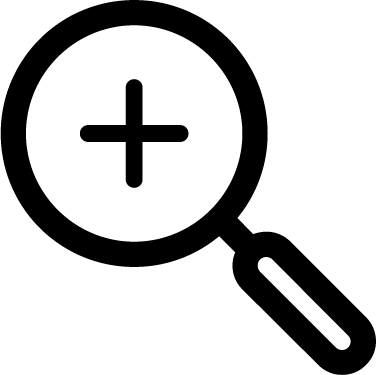
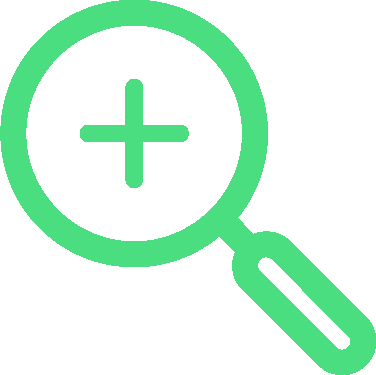
refactored format and style

Changed region(s): [[0.0, 0.0, 1.0, 1.0], [0.2048, 0.2053, 0.4973, 0.4987]]

diff --git a/pages/index.js b/pages/index.js
@@ -1,6 +1,6 @@
 import Head from "next/head";
 import { useState } from "react";
-import { Body, ContentWrapper, NavBtn, NavSelected } from "../styles/styles";
+import { Body, ContentWrapper, NavBtn } from "../styles/styles";
 import Overview from "./overview";
 import Art from "./art";
 import Development from "./development";
@@ -14,9 +14,23 @@ export default function Index() {
     window.scrollTo(0, 0);
   };
 
+  const NavButton = ({ value }) => {
+    return (
+      <button
+        className={`${NavBtn} ${
+          currentPage == value ? "border border-green-800" : null
+        }`}
+        onClick={handleNav}
+        value={value}
+      >
+        {value}
+      </button>
+    );
+  };
+
   return (
     <div className={Body}>
-      <nav className="fixed bg-green-700 w-full shadow z-10">
+      <nav className="fixed bg-gray-700 w-full border-b border-green-400 z-10">
         <Head>
           <title>Ethan Mathes</title>
           <link rel="icon" type="image/png" sizes="32x32" href="/logo.png" />
@@ -27,43 +41,17 @@ export default function Index() {
               <div className="flex-shrink-0 flex items-center">
                 <img className="block h-8 w-auto" src="/logo.png" alt="Logo" />
               </div>
-              <div className="flex-shrink-0 flex items-center text-white px-3 py-2 rounded-md text-2xl font-medium">
+              <div className="flex-shrink-0 flex items-center text-gray-300 px-3 py-2 rounded-md text-2xl font-medium">
                 ETHAN MATHES
               </div>
             </div>
             <div className="absolute inset-y-0 right-0 flex items-center pr-2 sm:static sm:inset-auto sm:ml-6 sm:pr-0">
               <div className="hidden sm:block sm:ml-6">
                 <div className="flex space-x-4">
-                  <button
-                    className={currentPage == "Overview" ? NavSelected : NavBtn}
-                    onClick={handleNav}
-                    value="Overview"
-                  >
-                    Overview
-                  </button>
-                  <button
-                    className={currentPage == "Art" ? NavSelected : NavBtn}
-                    onClick={handleNav}
-                    value="Art"
-                  >
-                    Art
-                  </button>
-                  <button
-                    className={
-                      currentPage == "Development" ? NavSelected : NavBtn
-                    }
-                    onClick={handleNav}
-                    value="Development"
-                  >
-                    Development
-                  </button>
-                  <button
-                    className={currentPage == "Links" ? NavSelected : NavBtn}
-                    onClick={handleNav}
-                    value="Links"
-                  >
-                    Links
-                  </button>
+                  <NavButton value="Overview" />
+                  <NavButton value="Art" />
+                  <NavButton value="Development" />
+                  <NavButton value="Links" />
                 </div>
               </div>
             </div>
@@ -71,34 +59,10 @@ export default function Index() {
         </div>
         <div className="sm:hidden" id="mobile-menu">
           <div className="pb-3 flex justify-center">
-            <button
-              className={currentPage == "Overview" ? NavSelected : NavBtn}
-              onClick={handleNav}
-              value="Overview"
-            >
-              Overview
-            </button>
-            <button
-              className={currentPage == "Art" ? NavSelected : NavBtn}
-              onClick={handleNav}
-              value="Art"
-            >
-              Art
-            </button>
-            <button
-              className={currentPage == "Development" ? NavSelected : NavBtn}
-              onClick={handleNav}
-              value="Development"
-            >
-              Development
-            </button>
-            <button
-              className={currentPage == "Links" ? NavSelected : NavBtn}
-              onClick={handleNav}
-              value="Links"
-            >
-              Links
-            </button>
+            <NavButton value="Overview" />
+            <NavButton value="Art" />
+            <NavButton value="Development" />
+            <NavButton value="Links" />
           </div>
         </div>
       </nav>

diff --git a/pages/overview.js b/pages/overview.js
@@ -3,8 +3,8 @@ import { Bubble, Grid, Link } from "../styles/styles";
 export default function Overview() {
   return (
     <div className={`md:grid-cols-6 ${Grid}`}>
-      <div className="md:col-span-2 text-5xl sm:text-6xl md:text-7xl font-bold flex">
-        <div className="m-auto">About Me</div>
+      <div className="text-green-400 md:col-span-2 text-5xl sm:text-6xl md:text-7xl font-bold flex m-auto">
+        About Me
       </div>
       <div className={`md:col-span-4 ${Bubble}`}>
         <div>
@@ -46,26 +46,26 @@ export default function Overview() {
       </div>
       <div className="md:col-span-6 text-3xl font-bold">Technical Skills</div>
       <div className={`md:col-span-2 ${Bubble}`}>
-        <div className="font-bold">Languages/ Frameworks</div>
+        <div className="font-bold text-green-400">Languages/ Frameworks</div>
         <div className="mt-2">
           NodeJS, JSON, NextJS, ReactJS, React Native, TypeScript, C#, Docker
         </div>
       </div>
       <div className={`md:col-span-2 ${Bubble}`}>
-        <div className="font-bold">Art Software</div>
+        <div className="font-bold text-green-400">Art Software</div>
         <div className="mt-2">
           Photoshop, Illustrator, Animate, Premier Pro, Maya, Substance Painter
         </div>
       </div>
       <div className={`md:col-span-2 ${Bubble}`}>
-        <div className="font-bold">Other Relevant Software</div>
+        <div className="font-bold text-green-400">Other Relevant Software</div>
         <div className="mt-2">
           Unity, GitHub, GitLab, Visual Studio, AWS, Vercel, Firebase
         </div>
       </div>
       <div className="md:col-span-6 text-3xl font-bold">Work Experience</div>
       <div className={`md:col-span-6 ${Bubble}`}>
-        <div className="font-bold">
+        <div className="font-bold text-green-400">
           Software Developer (BFITEC, APR 2020-CURRENT)
         </div>
         <div className="mt-2">
@@ -75,24 +75,23 @@ export default function Overview() {
             BF Innovative Technologies{" "}
           </a>
           since April of 2020. During my time at this company I've worked on a
-          number of projects, including
+          number of projects, including the
           <a href="https://www.fivepencilmethod.com/" className={Link}>
             {" "}
-            Five Pencil Method
+            Five Pencil Method{" "}
           </a>
-          , it's companion app, and
+          website, it's companion app, and the
           <a href="https://pcpureposition.com" className={Link}>
             {" "}
-            Pure Position
+            Pure Position{" "}
           </a>
-          . Throughout my time here I've primarily worked with NodeJS, NextJS,
-          and Typescript but I've also worked on projects with Windows .NET
-          applications.
+          website. I've primarily worked with NodeJS, NextJS, and Typescript but
+          I've also worked on projects with Windows .NET applications.
         </div>
       </div>
       <div className="md:col-span-6 text-3xl font-bold">Education</div>
       <div className={`md:col-span-3 ${Bubble}`}>
-        <div className="font-bold">General Info</div>
+        <div className="font-bold text-green-400">General Info</div>
         <div className="mt-2">
           Pursuing a Bachelor of Science degree through the College of
           Innovation and Design at Boise State University. Planning to graduate
@@ -100,7 +99,7 @@ export default function Overview() {
         </div>
       </div>
       <div className={`md:col-span-3 ${Bubble}`}>
-        <div className="font-bold">Details</div>
+        <div className="font-bold text-green-400">Details</div>
         <div className="mt-2">
           <b>Major: </b> Games, Interactive Media, and Mobile
           <br />

diff --git a/pages/art.js b/pages/art.js
@@ -7,7 +7,7 @@ export default function Art() {
   const [modalImg, setModalImg] = useState();
 
   return (
-    <div>
+    <div className={`lg:grid-cols-3 md:grid-cols-2 ${Grid}`}>
       {showModal ? (
         <>
           <div
@@ -17,7 +17,7 @@ export default function Art() {
             <div className="relative w-auto max-w-sm sm:max-w-l md:max-w-xl lg:max-w-3xl">
               <div className={Bubble}>
                 <button
-                  className="absolute right-5 sm:right-7 md:right-8 top-3 sm:top-5 focus:outline-none text-red-800 text-xl sm:text-2xl md:text-3xl lg:text-4xl font-extrabold hover:text-red-400"
+                  className="absolute right-5 sm:right-7 md:right-8 top-3 sm:top-5 focus:outline-none text-red-700 text-xl sm:text-2xl md:text-3xl lg:text-4xl font-extrabold hover:text-red-500"
                   onClick={() => setShowModal(false)}
                 >
                   &times;
@@ -26,40 +26,42 @@ export default function Art() {
               </div>
             </div>
           </div>
-          <div className="opacity-25 fixed inset-0 z-40 bg-black"></div>
+          <div className="opacity-50 fixed inset-0 z-40 bg-black"></div>
         </>
       ) : null}
-      <div className={`md:grid-cols-3 ${Grid}`}>
-        {ArtData.map((img) => {
-          var source = "/art/" + img.name;
-          return (
-            <div className={`relative z-0 flex flex-col ${Bubble}`}>
-              <div className="text-3xl font-bold flex-grow">{img.title}</div>
-              <div className="my-4 flex-grow">
-                <img
-                  src={source}
-                  alt={img.name}
-                  className="mx-auto cursor-pointer"
-                  onClick={() => {
-                    setModalImg(img.name);
-                    setShowModal(true);
-                  }}
-                />
-              </div>
-              <div>{img.description}</div>
+      <div className="lg:col-span-3 md:col-span-2 text-4xl font-bold">
+        Artwork
+      </div>
+      {ArtData.map((img) => {
+        return (
+          <div className={`relative z-0 flex flex-col ${Bubble}`}>
+            <div className="text-green-400 text-3xl font-bold flex-grow">
+              {img.title}
+            </div>
+            <div className="my-4 flex-grow">
               <img
-                src="/magnify.png"
-                alt="magnify"
-                className="absolute bottom-1.5 md:bottom-2 right-1.5 md:right-2 w-4 md:w-6 cursor-pointer"
+                src={"/art/" + img.name}
+                alt={img.name}
+                className="mx-auto cursor-pointer"
                 onClick={() => {
                   setModalImg(img.name);
                   setShowModal(true);
                 }}
               />
             </div>
-          );
-        })}
-      </div>
+            <div className="px-2">{img.description}</div>
+            <img
+              src="/magnify.png"
+              alt="magnify"
+              className="absolute bottom-1.5 md:bottom-2 right-1.5 md:right-2 w-4 md:w-6 cursor-pointer"
+              onClick={() => {
+                setModalImg(img.name);
+                setShowModal(true);
+              }}
+            />
+          </div>
+        );
+      })}
     </div>
   );
 }

diff --git a/pages/development.js b/pages/development.js
@@ -3,11 +3,16 @@ import Videos from "../public/data/videos.json";
 
 export default function Development() {
   return (
-    <div className={`md:grid-cols-2 ${Grid}`}>
+    <div className={`lg:grid-cols-2 ${Grid}`}>
+      <div className="lg:col-span-2 text-4xl font-bold">
+        Development Projects
+      </div>
       {Videos.map((video) => {
         return (
           <div className={Bubble}>
-            <div className="text-3xl font-bold">{video.title}</div>
+            <div className="text-green-400 text-3xl font-bold">
+              {video.title}
+            </div>
             <div>
               <div
                 style={{
@@ -32,8 +37,8 @@ export default function Development() {
                 />
               </div>
             </div>
-            <div className="flex-grow">{video.description}</div>
-            <hr className="my-4" />
+            <div className="flex-grow px-2">{video.description}</div>
+            <hr className="my-4 border border-green-800" />
             {video.site ? (
               <div className="grid grid-cols-2">
                 <a href={video.repo} className={Link}>

diff --git a/styles/styles.js b/styles/styles.js
@@ -1,11 +1,9 @@
-export const Body = "min-h-screen h-full bg-green-100";
-export const Bubble = "flex flex-col bg-white rounded-lg shadow-lg p-4 sm:p-6";
+export const Body = "min-h-screen h-full bg-gray-900 text-gray-300";
+export const Bubble =
+  "flex flex-col bg-gray-700 border border-green-800 rounded-lg p-4 sm:p-6";
 export const ContentWrapper =
   "h-full flex max-w-7xl mx-auto px-4 sm:px-6 lg:px-8 pt-32 sm:pt-24 pb-5 sm:pb-10";
-export const Grid =
-  "grid md:gap-8 sm:gap-6 gap-4 md:text-lg sm:text-base text-sm text-center";
-export const Link = "text-blue-400 hover:text-blue-500";
+export const Grid = "grid md:gap-8 sm:gap-6 gap-4 text-lg text-center";
+export const Link = "text-green-500 hover:text-green-300";
 export const NavBtn =
-  "text-white hover:bg-green-800 px-3 py-2 rounded-md text-sm font-medium focus:outline-none";
-export const NavSelected =
-  "bg-green-900 text-white px-3 py-2 rounded-md text-sm font-medium focus:outline-none";
+  "text-green-400 hover:bg-gray-600 px-3 py-2 rounded-md text-sm focus:outline-none";

diff --git a/pages/links.js b/pages/links.js
@@ -2,7 +2,10 @@ import { Bubble, Grid, Link } from "../styles/styles";
 
 export default function Links() {
   return (
-    <div className={`md:grid-cols-3 ${Grid}`}>
+    <div className={`lg:grid-cols-3 md:grid-cols-2 ${Grid}`}>
+      <div className="lg:col-span-3 md:col-span-2 text-4xl font-bold">
+        Relevant Links
+      </div>
       <div className={Bubble}>
         <a href="mailto:mathes974@gmail.com">
           <img className="w-2/3 mx-auto" src="/mail.png" alt="mail" />

diff --git a/tailwind.config.js b/tailwind.config.js
@@ -4,14 +4,11 @@ module.exports = {
   purge: ["./pages/**/*.{js,ts,jsx,tsx}", "./styles/**/*.{js,ts,jsx,tsx}"],
   darkMode: false,
   theme: {
-    colors: {
-      black: colors.black,
-      blue: colors.blue,
-      emerald: colors.emerald,
-      green: colors.green,
-      lime: colors.lime,
-      red: colors.red,
-      white: colors.white,
+    extend: {
+      colors: {
+        gray: colors.trueGray,
+        green: colors.green,
+      },
     },
   },
   variants: {
